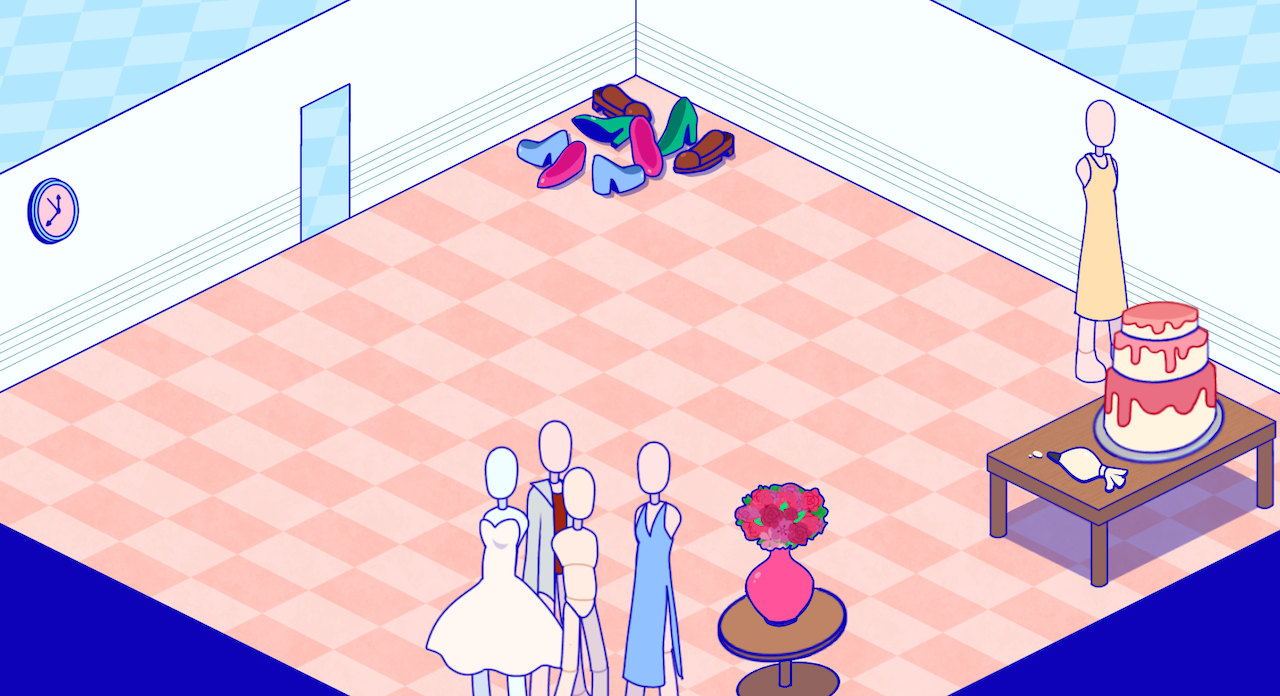
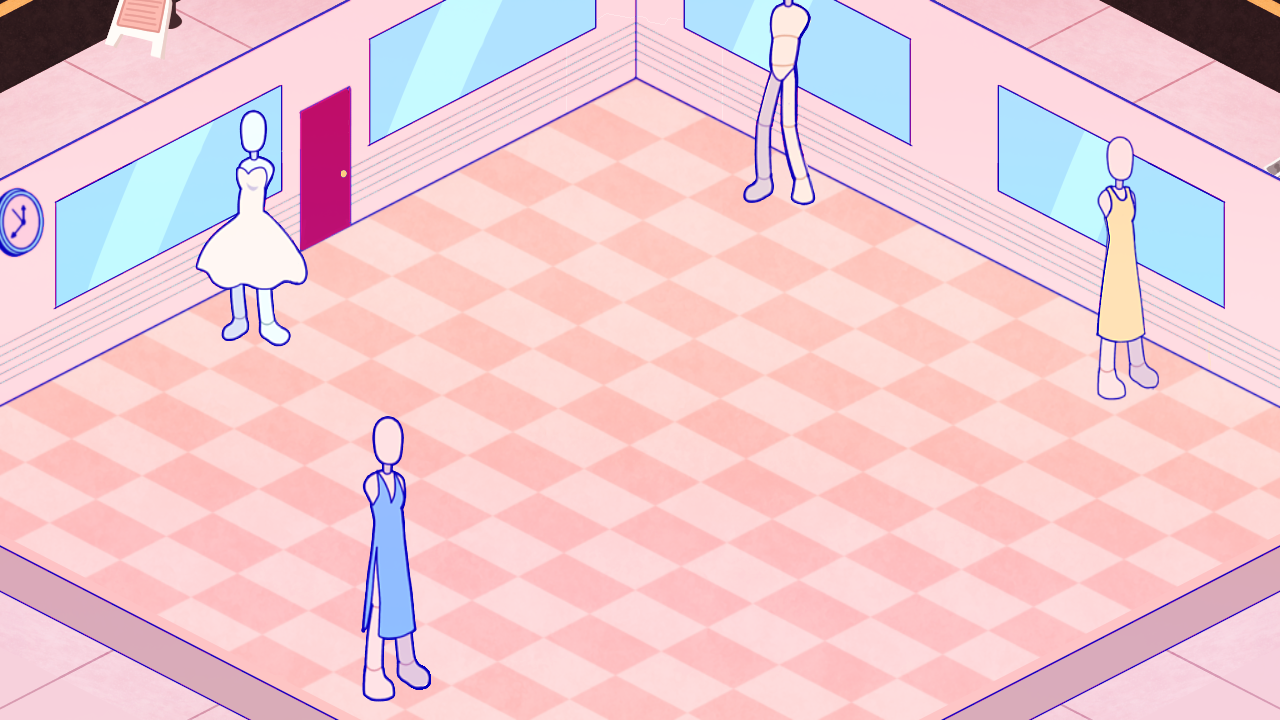
Squashed commit of the following:
commit 92dca2cfb905539c75d1f29909b38d2f82794be7
Author: Ctech 21K <ctech21k@Ctech-21Ks-iMac.local>
Date:   Thu May 19 16:01:49 2022 -0400

    Added new background images, added new background image for mini game

commit 6b4e9e380a97021c92350e742b764211644c325c
Author: Ctech 21K <ctech21k@Ctech-21Ks-iMac.local>
Date:   Wed May 18 17:51:46 2022 -0400

    Set the shoes in area limit, added more shoes

commit de8920ac192d9124d7b69757df1186707da8e2ab
Author: Ctech 21K <ctech21k@Ctech-21Ks-iMac.local>
Date:   Wed May 18 16:17:03 2022 -0400

    updated shoe game mini scene, now items are draggable

commit 158a51051c083b7f5170b63c2b5a322306a08e75
Author: Ctech 21K <ctech21k@Ctech-21Ks-iMac.local>
Date:   Tue May 17 17:58:15 2022 -0400

    updating shoe mini game, added new background images for mini games, added button and new background for game over scene, updated items in mini games

commit 700c43c0e0d847269399b1b83413ccb75be81154
Author: Ctech 21K <ctech21k@Ctech-21Ks-iMac.local>
Date:   Thu May 12 18:00:02 2022 -0400

    updates on shoe mini game

commit 494f33859bbc0769a6298167ff1b37e1fa5d7b32
Author: Ctech 21K <ctech21k@Ctech-21Ks-iMac.local>
Date:   Thu May 12 16:11:21 2022 -0400

    fixing reload bug

commit 42afe4ed9cbdb24abf1a1e3f14f61bcff065d4ea
Author: Ctech 21K <ctech21k@Ctech-21Ks-iMac.local>
Date:   Thu May 12 14:28:54 2022 -0400

    added two shoe images, changed game place over image

diff --git a/src/scripts/Scenes/GameScene.ts b/src/scripts/Scenes/GameScene.ts
@@ -10,11 +10,13 @@ export default class GameScene extends Phaser.Scene {
   cake;
   shoes;
   flower;
+  pedestal;
   text;
   timeLimit = 300;
   activeTime = false;
   currentTime = 0;
   gameOver = false;
+
 
 
   constructor() {
@@ -27,33 +29,12 @@ export default class GameScene extends Phaser.Scene {
   preload() {
     this.load.image('player', new URL('../../assets/myplayer.png', import.meta.url).href);
     this.load.image('background', new URL('../../assets/myBackground.png', import.meta.url).href);
+    this.load.image('pedestal', new URL('../../assets/pedestal.png', import.meta.url).href);
     this.load.image('enemy', new URL('../../assets/myEnemy.png', import.meta.url).href);
     this.load.image('flower', new URL('../../assets/flower.png', import.meta.url).href);
     this.load.image('cake', new URL('../../assets/cake.png', import.meta.url).href);
     this.load.image('shoes', new URL('../../assets/shoes.png', import.meta.url).href);
-    this.load.spritesheet('moveright', new URL('../../assets/maidR.png',
-      import.meta.url).href, {
-      frameWidth: 439,
-      frameHeight: 477
-    });
 
-    this.load.spritesheet('moverleft', new URL('../../assets/maidL.png',
-      import.meta.url).href, {
-      frameWidth: 439,
-      frameHeight: 477
-    });
-
-    this.load.spritesheet('moveup', new URL('../../assets/maidU.png',
-      import.meta.url).href, {
-      frameWidth: 439,
-      frameHeight: 477
-    });
-
-    this.load.spritesheet('movedown', new URL('../../assets/maidD.png',
-      import.meta.url).href, {
-      frameWidth: 439,
-      frameHeight: 477
-    });
   }
 
   create() {
@@ -61,16 +42,23 @@ export default class GameScene extends Phaser.Scene {
     const gameHeight: number = this.game.config.height as number;
 
     this.add.image(gameWidth / 2, gameHeight / 2, 'background');
-    this.enemy = this.physics.add.sprite(260, 280, 'enemy').setScale(.2, .2).setImmovable(true);
-    this.shoes = this.physics.add.sprite(700, 200, 'shoes').setScale(.1, .1).setImmovable(true);
-    this.cake = this.physics.add.sprite(1125, 400, 'cake').setScale(.4, .4).setImmovable(true);
-    this.flower = this.physics.add.sprite(500, 640, 'flower').setScale(.3, .3).setImmovable(true);
+    this.pedestal = this.physics.add.sprite(100, 440, 'pedestal').setScale(2, 2);
+    this.pedestal.setSize(90, 50);
+    this.cake = this.physics.add.sprite(1125, 400, 'cake').setScale(1.2, 1.2).setImmovable(true);
+    this.cake.setSize(100, 150);
+    this.enemy = this.physics.add.sprite(100, 350, 'enemy').setScale(.2, .2).setImmovable(true);
+    this.enemy.setSize(900, 900);
+    this.shoes = this.physics.add.sprite(600, 100, 'shoes').setScale(1.4, 1.4).setImmovable(true);
+    this.shoes.setSize(90, 90);
+    this.flower = this.physics.add.sprite(700, 650, 'flower').setScale(1.4, 1.4).setImmovable(true);
+    this.flower.setSize(70, 100);
+
     this.player = new Player(this, gameWidth / 2, gameHeight / 2);
+
 
     this.text = this.add.text(50, 50, 'timer: ', {
       fontFamily: 'Luminari Regular',
       fontSize: '30px',
-      // fill: '#000000',
       align: 'center',
       fontStyle: 'normal',
       stroke: '#000000',
@@ -81,7 +69,7 @@ export default class GameScene extends Phaser.Scene {
     });
 
     this.physics.add.collider(this.player, this.enemy, () => {
-      console.log('Brides are really awsome');
+      console.log('i have reached the bride');
     });
 
     this.physics.add.collider(this.player, this.flower, () => {
@@ -95,31 +83,11 @@ export default class GameScene extends Phaser.Scene {
     this.physics.add.collider(this.player, this.shoes, () => {
       console.log('i have reached the shoes');
     });
-
-    this.anims.create({
-      key: 'moveright',
-      frames: [{
-        key: 'moveright',
-        frame: 0
-      },
-      {
-        key: 'moveright',
-        frame: 1
-      },
-      {
-        key: 'moveright',
-        frame: 2
-      }
-      ],
-      frameRate: 15,
-      repeat: -1
-    })
   }
 
   update(time, delta) {
     this.currentTime += delta;
 
-    //console.log('time: ' + time, 'delta: ' + delta)
     this.player.update();
     this.timer();
     this.setScoreText();
@@ -127,7 +95,6 @@ export default class GameScene extends Phaser.Scene {
   }
 
   setScoreText() {
-    // console.log('hello')
     this.text.setText('Time: ' + this.timeLimit)
   }
   gameIsOver() {
@@ -144,7 +111,6 @@ export default class GameScene extends Phaser.Scene {
     if (this.activeTime === false) {
       console.log('timeLimit:' + this.timeLimit);
       this.timeLimit -= 1;
-      // this.setScoreText();
       this.activeTime = true;
       this.currentTime = 0;
     }

diff --git a/src/scripts/Scenes/ShoeMiniGame.ts b/src/scripts/Scenes/ShoeMiniGame.ts
@@ -2,25 +2,69 @@ import Phaser from 'phaser';
 import Player from '../Sprites/Player';
 
 export default class ShoeMiniGame extends Phaser.Scene {
-
+  shoes;
+  colors = ['0x212529', '0x9a8c98', '0x3f37c9']
+  frames = [
+    'shoe1',
+    'shoe2',
+  ];
   constructor() {
     super({
       key: 'ShoeMiniGame',
     });
+
   }
 
   preload() {
     this.load.image('ShoeMiniGame', new URL('../../assets/ShoeMiniGame.png', import.meta.url).href);
+    this.load.image('shoe2', new URL('../../assets/rightshoe.png', import.meta.url).href);
+    this.load.image('shoe3', new URL('../../assets/leftshoe.png', import.meta.url).href);
+
+
+
   }
 
+  // Making l&R shoe the same color
+  //make a for loop, numloops = the number of pairs we are adding 
+  // Index num = the Index for the hex color code
+  // Add additional pairs of shoes
 
   create() {
     const gameWidth: number = this.game.config.width as number;
     const gameHeight: number = this.game.config.height as number;
     this.add.image(gameWidth / 2, gameHeight / 2, 'ShoeMiniGame');
+    this.add.image(950, 610, 'shoe2').setScale(.2, .2);
+    //310 and 950 for the sides of the box
+    //450 and 
+    this.shoes = this.physics.add.group()
+
+    this.setImage();
+
+    this.input.topOnly = false;
+
+    this.input.on('drag', function (pointer, gameObject, dragX, dragY) {
+
+      gameObject.x = dragX;
+      gameObject.y = dragY;
+
+    });
+    this.shoes.getChildren().forEach((shoe) => {
+      shoe.setInteractive({ draggable: true });
+    });
+
+    this.input.on('drag', function (pointer, gameobject, dragX, dragY) {
+      gameobject.x = dragX;
+      gameobject.y + dragY;
+    })
   }
 
+  setImage() {
+    for (let i = 0; i < this.colors.length; i++) {
+      this.shoes.create(Phaser.Math.Between(310, 950), Phaser.Math.Between(450, 610), 'shoe2').setScale(.4, .4).setTint(this.colors[i]);
+      this.shoes.create(Phaser.Math.Between(310, 950), Phaser.Math.Between(450, 610), 'shoe3').setScale(.4, .4).setTint(this.colors[i]);
 
+    }
+  }
 
 
   update() { }

diff --git a/src/scripts/Scenes/MenuScene.ts b/src/scripts/Scenes/MenuScene.ts
@@ -14,9 +14,7 @@ export default class GameScene extends Phaser.Scene {
 
   }
 
-  //change the name of game
   create() {
-
     const gameWidth: number = this.game.config.width as number;
     const gameHeight: number = this.game.config.height as number;
     this.add.image(gameWidth / 2, gameHeight / 2, 'menuscreen');
@@ -28,32 +26,9 @@ export default class GameScene extends Phaser.Scene {
       align: 'center',
     }
     this.start = this.add.image(gameWidth - 910, gameHeight - 365, 'start').setScale(.68, .5);
-    console.log(this.start);
-    // this.start.setVisible(false);
     this.start.setInteractive();
     this.start.on('pointerdown', () => {
-      console.log('start');
       this.scene.start('GameScene');
     });
-
-    //  WebFont.load({
-    //     custom: {
-    //       families: ['Space Mono'],
-    //     },
-    //     active: () => {
-    //       this.add
-    //         .text(
-    //           gameWidth / 2,
-    //           gameHeight * (2 / 3),
-    //           'You can change me in MenuScene.js',
-    //           textStyle
-    //         )
-    //         .setOrigin(0.5);
-    //     },
-    //   });
-
-    // this.input.keyboard.on('keydown-SPACE', () => {
-    //   this.scene.start('GameScene');
-    // });
   }
 }

diff --git a/src/scripts/Scenes/GameoverScene.ts b/src/scripts/Scenes/GameoverScene.ts
@@ -2,7 +2,7 @@ import Phaser from 'phaser';
 import Player from '../Sprites/Player';
 
 export default class GameOverScene extends Phaser.Scene {
-
+  restart;
   constructor() {
     super({
       key: 'GameOverScene',
@@ -10,18 +10,21 @@ export default class GameOverScene extends Phaser.Scene {
   }
 
   preload() {
-    this.load.image('gameover', new URL('../../assets/Gameoverscene.png', import.meta.url).href);
-  }
+    this.load.image('gameover', new URL('../../assets/GameOverscene.png', import.meta.url).href);
+    this.load.image('restart', new URL('../../assets/restartbutton.png', import.meta.url).href);
 
+  }
 
   create() {
     const gameWidth: number = this.game.config.width as number;
     const gameHeight: number = this.game.config.height as number;
     this.add.image(gameWidth / 2, gameHeight / 2, 'gameover');
+    this.restart = this.add.image(gameWidth - 776, gameHeight - 402, 'restart').setScale(.5, .5);
+    this.restart.setInteractive();
+    this.restart.on('pointerdown', () => {
+      this.scene.start('GameoverScene');
+    });
   }
-
-
-
 
   update() { }
 }
